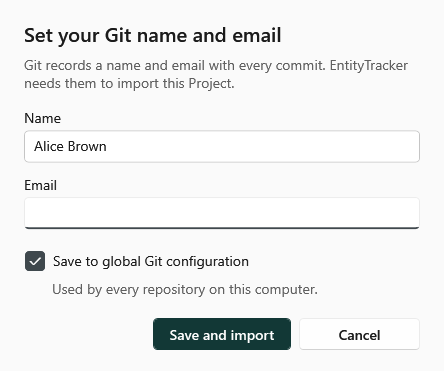
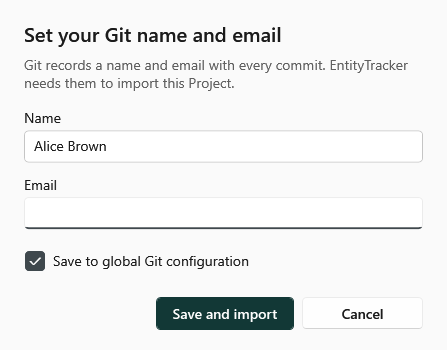
Drop the explanation under "Save to global Git configuration"
The checkbox label says what it does; users of Git sync are expected to know
what the global configuration is. The README and the dialog's captures follow.

diff --git a/src/EntityTracker.Wpf/Views/GitIdentityDialog.xaml b/src/EntityTracker.Wpf/Views/GitIdentityDialog.xaml
@@ -28,10 +28,7 @@
                      Text="{Binding Email, UpdateSourceTrigger=PropertyChanged}" />
 
             <CheckBox x:Name="ScopeCheckBox" Margin="0,16,0,0"
-                      Content="Save to _global Git configuration" IsChecked="{Binding SaveToGlobalConfiguration}"
-                      AutomationProperties.HelpText="{Binding ScopeDescription}" />
-            <TextBlock Margin="28,2,0,0" Style="{StaticResource PageDescriptionTextStyle}"
-                       Text="{Binding ScopeDescription}" />
+                      Content="Save to _global Git configuration" IsChecked="{Binding SaveToGlobalConfiguration}" />
 
             <!-- Shown under the fields instead of a second message box, so the dialog stays the only window. -->
             <TextBlock Margin="0,12,0,0" TextWrapping="Wrap" Foreground="{DynamicResource Brush.Critical}"

diff --git a/src/EntityTracker.Wpf/ViewModels/GitIdentityDialogViewModel.cs b/src/EntityTracker.Wpf/ViewModels/GitIdentityDialogViewModel.cs
@@ -13,7 +13,7 @@ public sealed class GitIdentityDialogViewModel : INotifyPropertyChanged
 {
     private string _name;
     private string _email;
-    private bool _saveForAllRepositories = true;
+    private bool _saveToGlobalConfiguration = true;
     private bool _isConfirmingCancel;
     private string? _errorMessage;
 
@@ -40,21 +40,16 @@ public sealed class GitIdentityDialogViewModel : INotifyPropertyChanged
     /// <summary>On: the global Git configuration (every repository). Off: only this repository.</summary>
     public bool SaveToGlobalConfiguration
     {
-        get => _saveForAllRepositories;
+        get => _saveToGlobalConfiguration;
         set
         {
-            if (_saveForAllRepositories == value) return;
-            _saveForAllRepositories = value;
+            if (_saveToGlobalConfiguration == value) return;
+            _saveToGlobalConfiguration = value;
             OnPropertyChanged();
-            OnPropertyChanged(nameof(ScopeDescription));
         }
     }
 
-    public GitConfigScope Scope => _saveForAllRepositories ? GitConfigScope.Global : GitConfigScope.Local;
-
-    public string ScopeDescription => _saveForAllRepositories
-        ? "Used by every repository on this computer."
-        : "Saved only in this repository's Git configuration.";
+    public GitConfigScope Scope => _saveToGlobalConfiguration ? GitConfigScope.Global : GitConfigScope.Local;
 
     /// <summary>Cancel was pressed once; the next press closes without importing.</summary>
     public bool IsConfirmingCancel

diff --git a/tests/EntityTracker.Wpf.Tests/ViewModels/GitIdentityDialogViewModelTests.cs b/tests/EntityTracker.Wpf.Tests/ViewModels/GitIdentityDialogViewModelTests.cs
@@ -19,12 +19,10 @@ public sealed class GitIdentityDialogViewModelTests
     {
         GitIdentityDialogViewModel dialog = new(null, null);
         Assert.Equal(GitConfigScope.Global, dialog.Scope);
-        Assert.Equal("Used by every repository on this computer.", dialog.ScopeDescription);
 
         dialog.SaveToGlobalConfiguration = false;
 
         Assert.Equal(GitConfigScope.Local, dialog.Scope);
-        Assert.Equal("Saved only in this repository's Git configuration.", dialog.ScopeDescription);
     }
 
     [Theory]

diff --git a/README.md b/README.md
@@ -132,8 +132,8 @@ snapshot with its stable IDs and history. If its Project name is already used lo
 private name for this installation; the shared snapshot keeps its original name.
 
 If Git has no name or email for your commits yet, import asks for them, with any value already set
-filled in. **Save to global Git configuration** saves them for every repository on this computer; clear it to
-save them only in this repository. **Save and import** carries on with the import. Cancel needs a
+filled in. **Save to global Git configuration** is on by default; clear it to save them
+only in this repository. **Save and import** carries on with the import. Cancel needs a
 second press, **Confirm cancel**, since the Project is then not imported.
 
 ![Import asking for the Git name and email, with the name already filled in and the email still to enter](images/light/git-identity.png)
